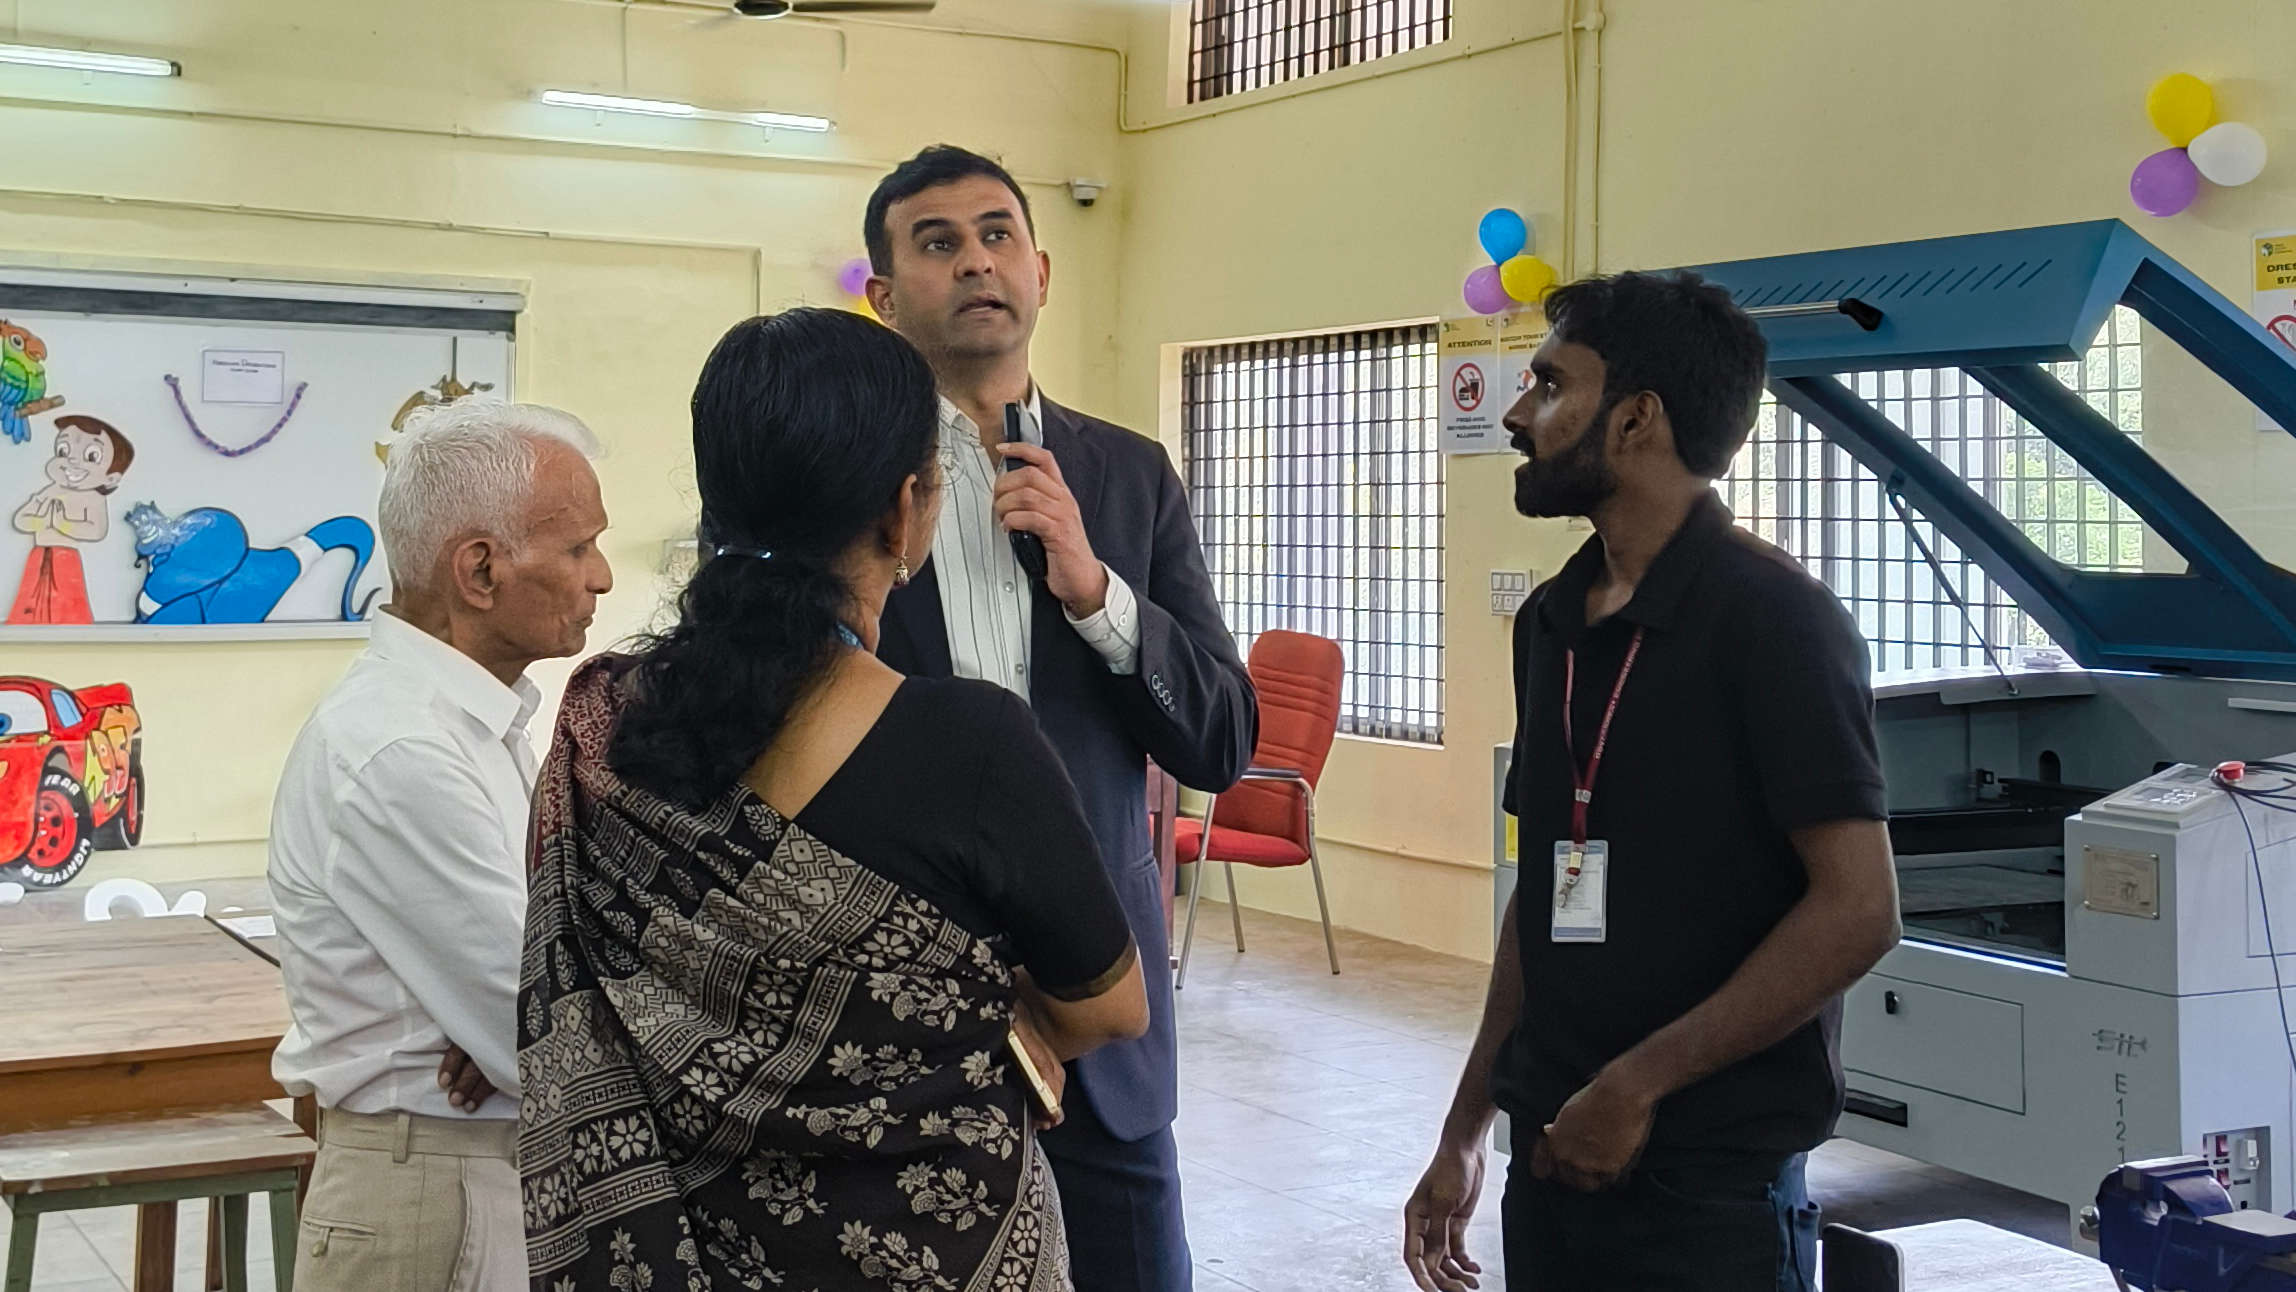
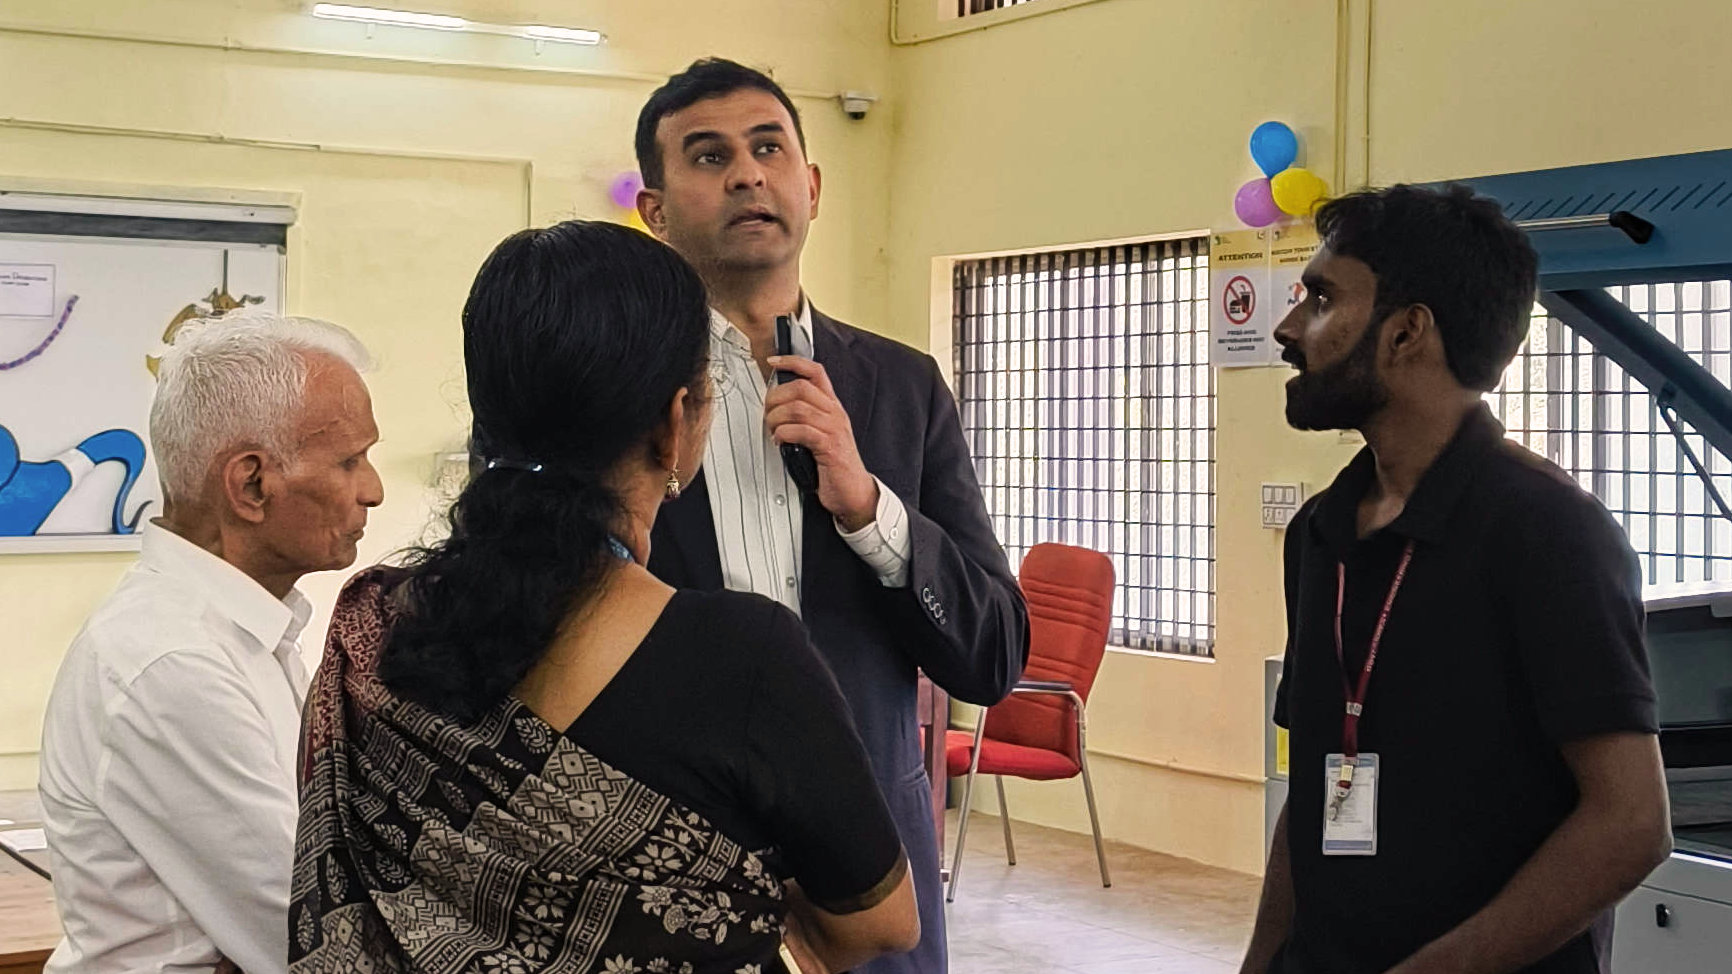
about-us update

diff --git a/content/about.md b/content/about.md
@@ -1,7 +1,7 @@
 +++
 title = "About us"
 eyebrow = "About us"
-lead = "A space to explore, create and learn together."
+lead = "There’s more to the Lab than meets the eye."
 +++
 
 ## Tinkerers’ Lab?
@@ -25,7 +25,10 @@ was the foremost proponent of such an endeavour in our college. She acted as
 the link between us and MakerBhavan Foundation. She took the initiative
 to manage the paperworks and formalities involved in bringing this lab.
 
-![](/images/about-us/nair-with-natekar.jpg)
+
+![](/images/about-us/nair-with-natekar.jpg "Dr. Reena Nair with Sandeep
+Natekar from MakerBhavan Foundation, together with them V. S. Narasimhan of
+Bliksem Tech® Singapore.")
 
 MakerBhavan Foundation is a non-profit Section 8 company registered in Mumbai,
 Maharashtra, and also registered in the U.S. as a 501(c)(3) tax-exempt public
@@ -49,7 +52,10 @@ together with the vanguard student volunteers through night and day that set up
 the Lab by the winter of ‘25 and summer of ‘26, and the Lab was officially
 inaugurated on the 10th of March.
 
-![](/images/about-us/inauguration-group-photo.jpg)
+![](/images/about-us/inauguration-group-photo.jpg "The vanguard student
+volunteers who took the first initiative in setting up the Lab and kept it
+beating through its nascence. Behind us, Sandeep Natekar,
+V. S. Narasimhan, and Dr. Reena Nair (the one hiding).")
 
 The Lab has gone through a lot of changes since. Although the core members
 remained, there were many revisions of the execom. We’ve worked the furniture,
